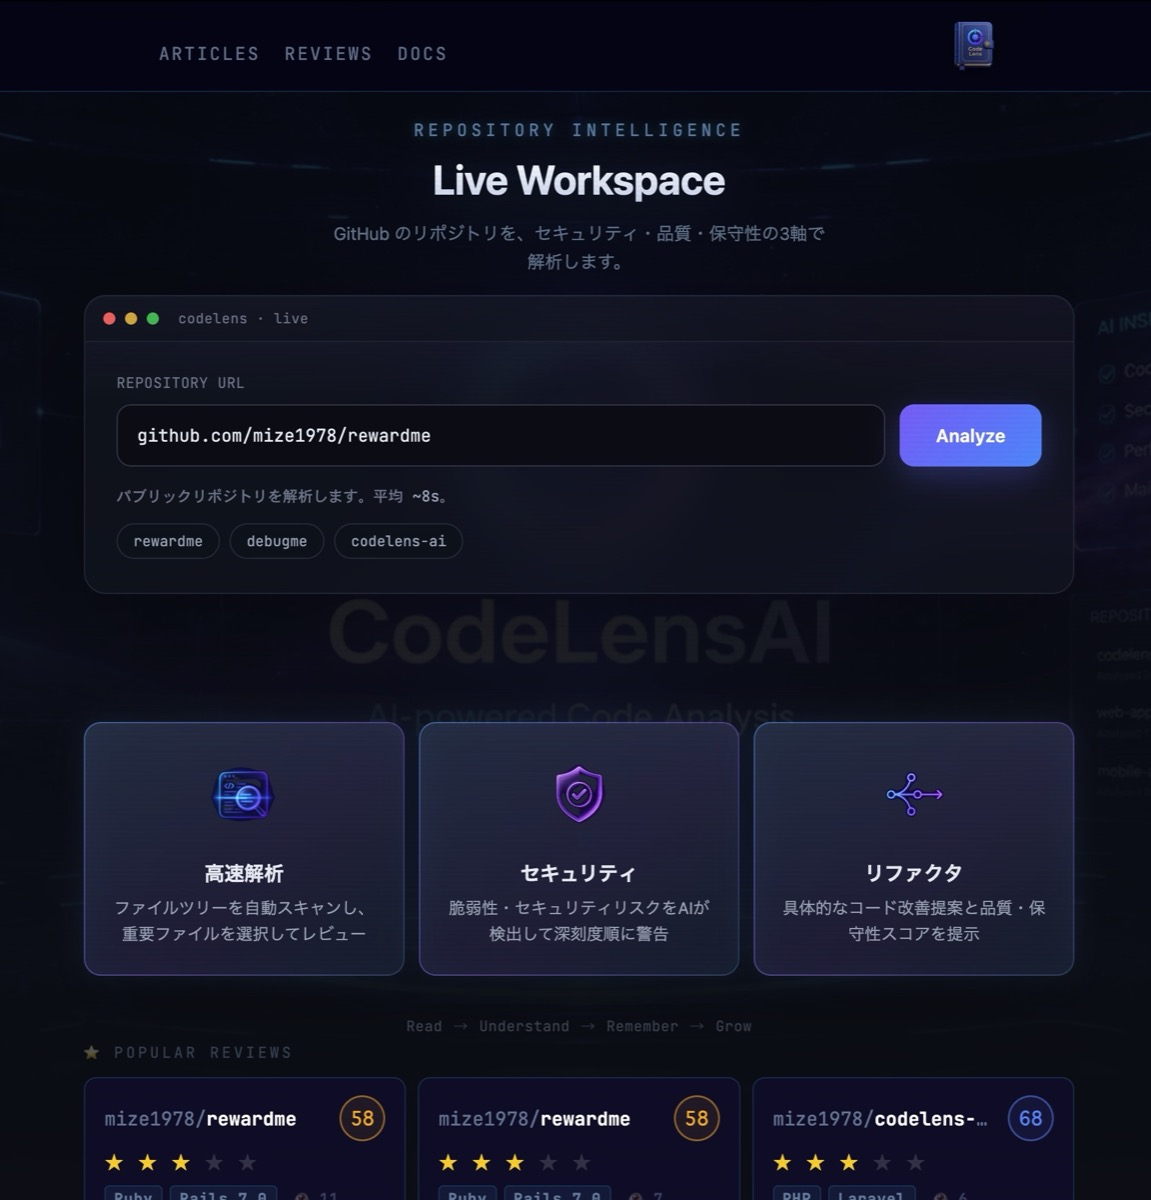
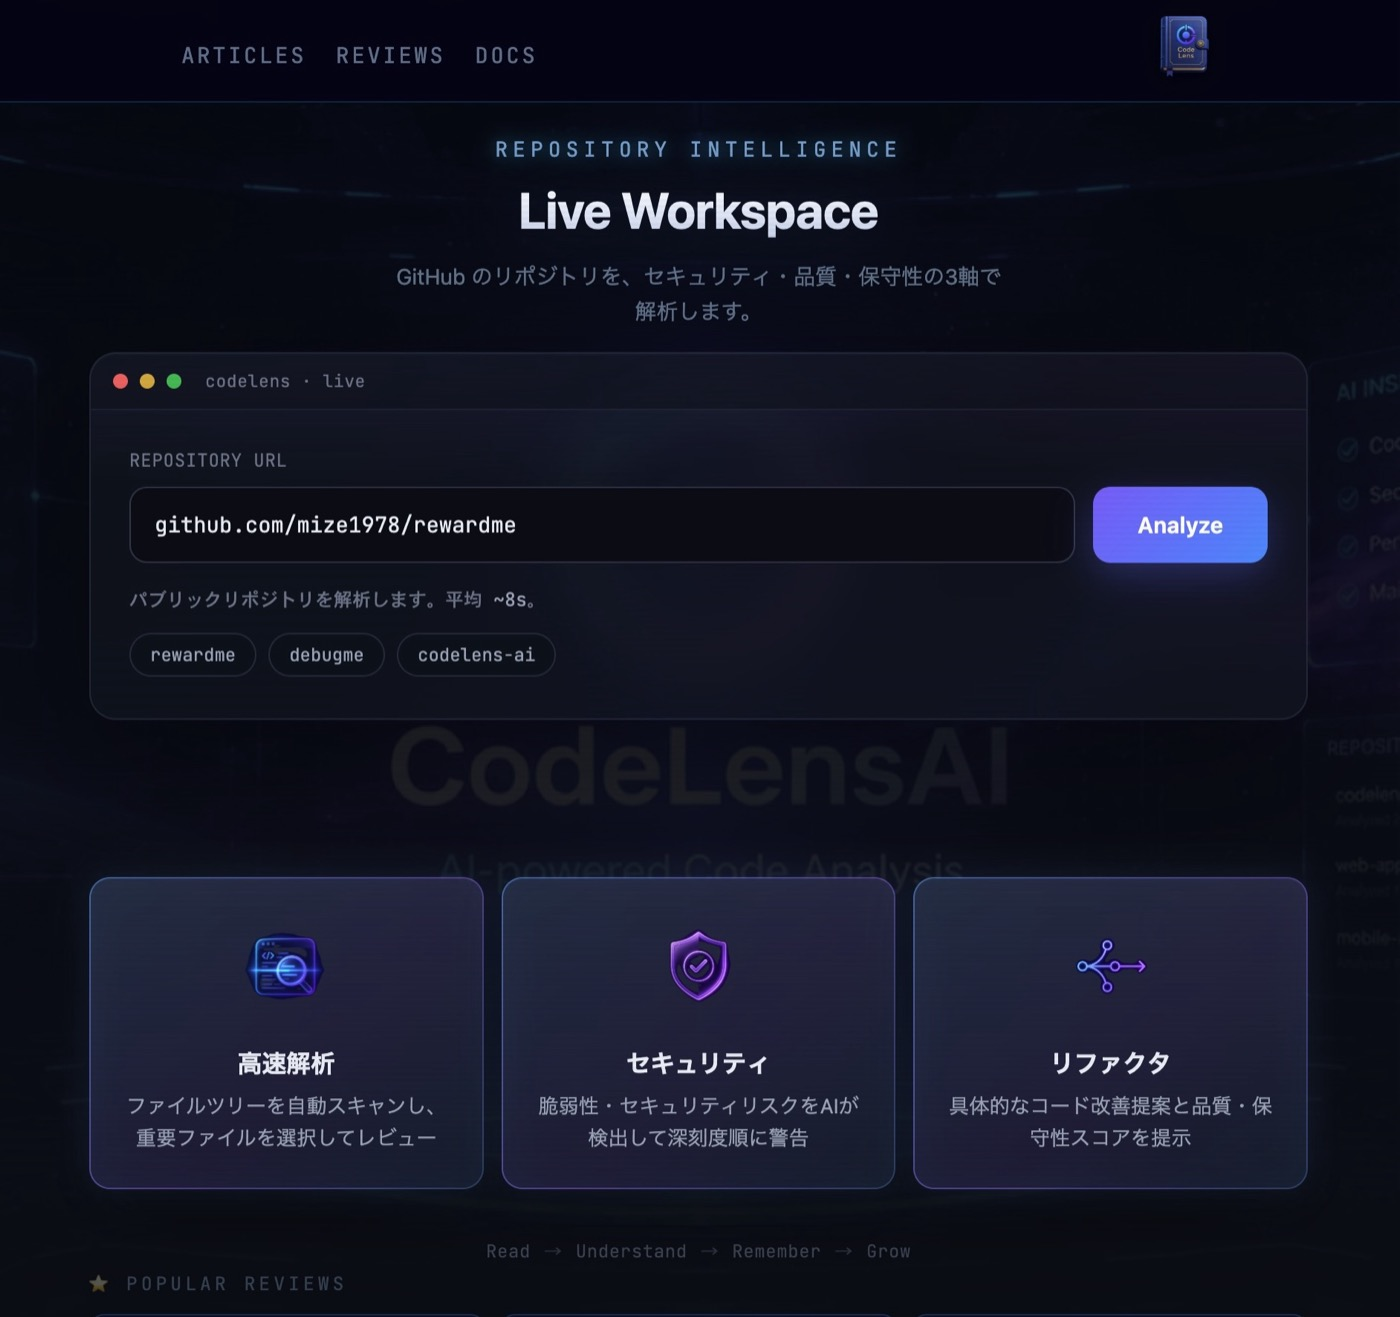
Rewrite README as a guided walk of the building — Read → Understand → Remember → Grow → Library → Living Book (latest UI)
Same thought as the Landing Page, translated to GitHub: someone who read the LP
walks the same building here. Removed Core/DNA/Ranking/Read-the-Story sections and
demo.gif; replaced all screenshots with the current UI.

diff --git a/README.md b/README.md
@@ -1,14 +1,10 @@
 <p align="center">
-  <img src="docs/images/banner.png" alt="CodeLensAI" width="900">
+  <img src="docs/images/hero.jpg" alt="CodeLensAI — Your repository remembers." width="900">
 </p>
 
-<h3 align="center">Repository Intelligence.</h3>
+<h3 align="center">Read software, not just code.</h3>
 <p align="center"><b>Your repository remembers.</b></p>
-
-<p align="center">
-  Paste any GitHub URL. CodeLensAI <b>reads</b> it, <b>understands</b> it, and <b>remembers</b> it —<br>
-  every review becomes part of your repository's memory.
-</p>
+<p align="center"><sub>Repository Intelligence begins here. &nbsp;·&nbsp; <b>Read → Understand → Remember → Grow</b></sub></p>
 
 <p align="center">
   <img src="https://img.shields.io/badge/Laravel-FF2D20?style=flat&logo=laravel&logoColor=white" alt="Laravel">
@@ -19,9 +15,15 @@
 </p>
 
 <p align="center">
-  <a href="https://codelens-ai-vplg.onrender.com"><strong>🚀 Live Demo</strong></a>
+  <a href="https://codelens-ai-vplg.onrender.com/"><b>🖥 Enter Workspace</b></a>
   &nbsp;·&nbsp;
-  <a href="https://mize1978.github.io/codelens-lp/archive.html"><strong>📚 Repository Intelligence Archive</strong></a>
+  <a href="https://mize1978.github.io/codelens-lp/"><b>📖 Landing</b></a>
+  &nbsp;·&nbsp;
+  <a href="https://mize1978.github.io/codelens-lp/archive.html"><b>📚 Archive</b></a>
+  &nbsp;·&nbsp;
+  <a href="https://glaze-turn-b67.notion.site/Development-Journal-3a0d9f65223b81c5acaff8a6a09cf9c0"><b>📘 Development Journal</b></a>
+  &nbsp;·&nbsp;
+  <a href="https://mize1978.github.io/"><b>👤 Portfolio</b></a>
 </p>
 
 ---
@@ -30,29 +32,17 @@
 
 Most tools score your code once, then forget it. A number appears, and the story ends there.
 
-**CodeLensAI is a Repository Intelligence Platform.** It treats every review as *memory* — it reads the
-important files, understands the design, remembers what it learned, and lets that understanding compound
-over time. The score isn't the conclusion. It's one line in a book your repository keeps writing.
+**CodeLensAI is a Repository Intelligence Platform.** It reads the important files, understands the
+design, remembers what it learned, and lets that understanding compound over time. The score isn't the
+conclusion — it's one line in a book your repository keeps writing.
 
-> This README is a **guided tour**. Scroll top to bottom and you walk the whole world — from the desk
-> where you analyze, through the heart that holds the memory, to the library where every review is kept.
-
----
-
-## The Loop — Read → Understand → Remember → Grow
-
-Every review moves through four verbs. This is the whole product in one line.
-
-| | | |
-|---|---|---|
-| **Read** | Selects the important files first | It reads the core, the way a senior engineer would |
-| **Understand** | Quality · Security · Maintainability | Deterministic — the same commit returns the same score |
-| **Remember** | Writes the review to the repository's memory | A review is not a one-off. It's shelved. |
-| **Grow** | Understanding compounds across reviews | The next review stacks on the history of the last |
+> This README walks the same building as the
+> **[Landing Page](https://mize1978.github.io/codelens-lp/)** — Workspace → Report → Archive → Journal.
+> Scroll top to bottom and you walk it once.
 
 ---
 
-## 🖥 Live Workspace — where you analyze
+## READ — Live Workspace
 
 Paste a GitHub URL and watch it get *read* in place — no page reloads, no 2005 loading screen. This is
 the desk. You sit down and start.
@@ -63,76 +53,68 @@ the desk. You sit down and start.
 
 ---
 
-## ⚡ Live Review — the AI generates the review
+## UNDERSTAND — the review writes itself
 
-`Read → Understand → Remember` streams as it happens. You don't wait — you watch analysis flow.
+`Read → Understand → Remember` streams as it happens. You don't wait — you watch analysis flow, then land
+on a score with the *why* behind it.
 
 <p align="center">
-  <img src="docs/images/demo.gif" alt="CodeLensAI — Analyze → Review → Archive" width="860">
+  <img src="docs/images/review-analysis.jpg" alt="Live review — 66 GOOD" width="860">
 </p>
-<p align="center"><sub><b>Analyze → Review → Archive</b> — one continuous room, from URL to memory.</sub></p>
+
+And the moment it finishes, it isn't just a number on screen — it's **written to the repository's memory.**
+
+<p align="center">
+  <img src="docs/images/review-memory.jpg" alt="This review is now part of the repository's memory" width="860">
+</p>
+<p align="center"><sub><i>Software deserves a memory. This review is now part of the repository's.</i></sub></p>
 
 ---
 
-## 📈 Proof — it actually grows
+## REMEMBER — Repository Memory
+
+A review is not a one-off. Every review becomes part of the repository's memory — shelved, newest first,
+so history compounds instead of resetting. **Read → Understand → Remember** stops being words and becomes
+an artifact.
+
+<p align="center">
+  <img src="docs/images/repository-memory.jpg" alt="Repository Memory — every review remembered" width="860">
+</p>
+
+---
+
+## GROW — the proof it compounds
 
 Not "we improved things." Here is the trajectory. **RewardMe**, a real repository, reviewed five times —
 same repo, same axes (Quality / Security / Maintainability), re-reviewed after every fix:
 
 <p align="center">
-  <img src="docs/images/proof.jpg" alt="Proof — RewardMe grew 49 → 66" width="860">
+  <img src="docs/images/case-study.jpg" alt="Case Study — RewardMe grew 49 → 66" width="860">
 </p>
 
 <p align="center">
   <b>Overall 49 → 66 (+17)</b> &nbsp;·&nbsp; <b>Security 45 → 70 (+25)</b> &nbsp;·&nbsp; every gain verified by re-review
 </p>
 
-The score moved because the *code* moved: client-trusted gacha scores → server-side validation,
-hardcoded mail `from` → ENV, empty migrations cleaned up. This is **"fixed, therefore rose"** — not a claim.
+The score moved because the *code* moved: client-trusted scores → server-side validation, hardcoded mail
+`from` → ENV, empty migrations cleaned up. This is **"fixed, therefore rose"** — not a claim.
 
 ---
 
-## 💜 Repository Core — every repository has a center
+## THE LIBRARY — Repository Intelligence Archive
 
-Before the books, there is a **heart**. The Repository Core is where memory lives and breathes — a living
-center that holds everything a repository has learned. It's not a button; it's the pulse of the whole world.
-
-<p align="center">
-  <img src="docs/images/core.jpg" alt="Repository Core" width="820">
-</p>
-<p align="center"><sub><b>Every repository leaves a memory.</b></sub></p>
-
----
-
-## 🧬 Repository DNA — the memory that accumulates
-
-Around that center, something builds up. Each review updates the **Repository DNA** — a living profile of
-the codebase's design, values, and character. Not a single score you glance at, but a *personality* that
-thickens review after review.
+The memory organizes itself into a **library**. Every review, study, and principle becomes a book on the
+shelf. This is where analysis turns into a **knowledge OS** — not a log, a place you walk through.
 
 <p align="center">
-  <img src="docs/images/dna.jpg" alt="Repository DNA" width="860">
-</p>
-<p align="center"><sub>Read → Understand → <b>Remember</b> — this is where "Remember" stops being a word and becomes an artifact.</sub></p>
-
----
-
-## 📚 Library — the DNA becomes books
-
-The memory organizes itself into a **library**. Every review, every study, every principle takes the form
-of a book on the shelf. This is where analysis turns into a **knowledge OS** — not a log, a place you walk
-through.
-
-<p align="center">
-  <img src="docs/images/shelf.jpg" alt="Repository Intelligence Archive — the shelf" width="860">
+  <img src="docs/images/library.jpg" alt="Repository Intelligence Archive — the shelf" width="860">
 </p>
 
-- 📘 **Repository DNA** · the philosophy the repo is built on
+- 📘 **Repository DNA** · the philosophy and character a repo accumulates review after review
 - 📚 **Review History** · the evolution timeline of every reviewed repo
 - 💡 **Case Study** · how RewardMe grew, written as a research paper
 - 🎨 **Design Bible** · the principles behind CodeLensAI
 - 📗 **Knowledge Base** · the encyclopedia of code & ideas
-- 📓 **Development Journal** · the one book that's never finished; it grows weekly
 
 <p align="center">
   <a href="https://mize1978.github.io/codelens-lp/archive.html"><b>→ Enter the Repository Intelligence Archive</b></a>
@@ -140,61 +122,36 @@ through.
 
 ---
 
-## 📖 Open a Book — the Review Archive
+## THE LIVING BOOK — Development Journal
 
-Take one down. Every review is shelved here, newest first — a repository of memories you can browse.
+Every book on the shelf is finished. One isn't. The **Development Journal** is the volume still being
+written — a new page every time the product grows.
 
 <p align="center">
-  <img src="docs/images/archive.jpg" alt="Review Archive" width="860">
+  <img src="docs/images/development-journal.jpg" alt="Development Journal — currently reading VOL.01" width="860">
+</p>
+<p align="center"><sub><b>CURRENTLY READING · VOL.01 — “Workspace became home.”</b></sub></p>
+
+<p align="center">
+  <a href="https://glaze-turn-b67.notion.site/Development-Journal-3a0d9f65223b81c5acaff8a6a09cf9c0"><b>→ Read the Development Journal</b></a>
 </p>
 
 ---
 
-## 📄 Review Report — read the evaluation
-
-Open a book and the full review is waiting: overall score, issues ranked by severity, *why each one
-matters*, one-click fixes, and exportable PR comments. This is the **evaluation** — a report you can
-return to, not a number you glance at once.
-
-<p align="center">
-  <img src="docs/images/review-report.jpg" alt="Review Report — GOOD 68" width="820">
-</p>
-
----
-
-## 🕯 Read the Story — close the book
-
-When you reach the end of a review, the librarian is there — lantern lit, the light still on. The
-evaluation is done; what remains is the **afterglow**. Close the book, and the shelf keeps it. The
-repository remembers.
-
-<p align="center">
-  <img src="docs/images/read-story.jpg" alt="CodeLens-kun keeps the light on" width="820">
-</p>
-
----
-
-## 🏆 Ranking — the world beyond your repo
-
-Compare repositories, discover rising projects, and climb the leaderboard — deduped to one latest review
-per repo, so it reflects the current state, not noise.
-
-<p align="center">
-  <img src="docs/images/ranking.jpg" alt="Ranking" width="860">
-</p>
+<p align="center"><i>This archive is alive. Every review writes another page.</i></p>
 
 ---
 
 ## 🛠 Tech Stack
 
-| Layer       | Technology                  |
-|-------------|-----------------------------|
-| Framework   | Laravel (PHP)               |
-| Views / UI  | Blade + Tailwind CSS        |
-| Database    | PostgreSQL                  |
-| AI          | Anthropic Claude API        |
+| Layer       | Technology                        |
+|-------------|-----------------------------------|
+| Framework   | Laravel (PHP)                     |
+| Views / UI  | Blade + Tailwind CSS              |
+| Database    | PostgreSQL                        |
+| AI          | Anthropic Claude API              |
 | Async       | Queue workers (async review jobs) |
-| Infra       | Docker / Docker Compose     |
+| Infra       | Docker / Docker Compose / Render  |
 
 ---
 
@@ -221,23 +178,11 @@ The app runs at http://localhost:3003.
 
 ---
 
-## 🗺 Roadmap
-
-The Archive is designed to keep growing. Next volumes & features:
-
-- [ ] Repository Intelligence Archive as a first-class in-app floor (not just the static library)
-- [ ] Support private repositories via GitHub OAuth
-- [ ] Multi-language deep analysis
-- [ ] Team dashboards & shared rankings
-- [ ] Export reviews as PDF / shareable cards
-
----
-
 ## 📄 License
 
 Released under the MIT License.
 
 <p align="center">
   Made with ☕ by <b>Mize</b> & <b>CodeLens-kun</b> 👑<br>
-  <sub><i>Repository Intelligence begins here.</i></sub>
+  <sub><i>LP is the entrance. Workspace is the place. Reports become books. Knowledge becomes memory.</i></sub>
 </p>
